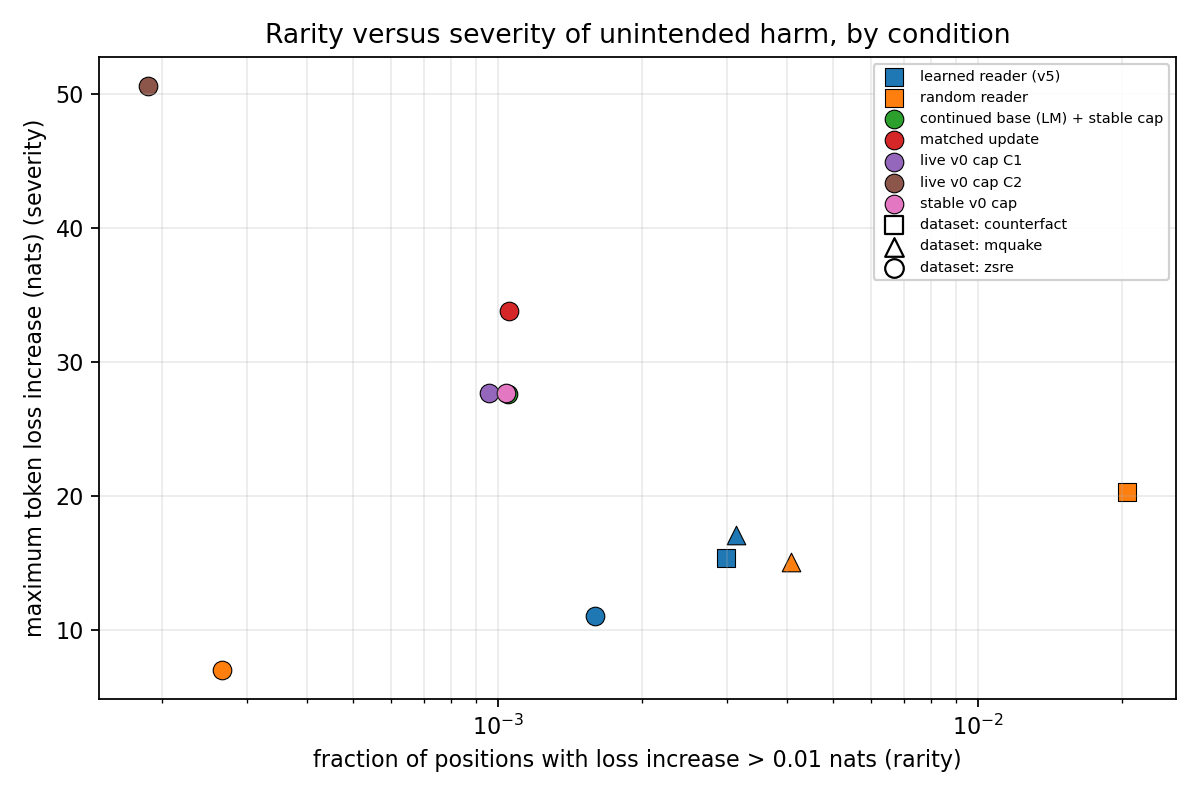
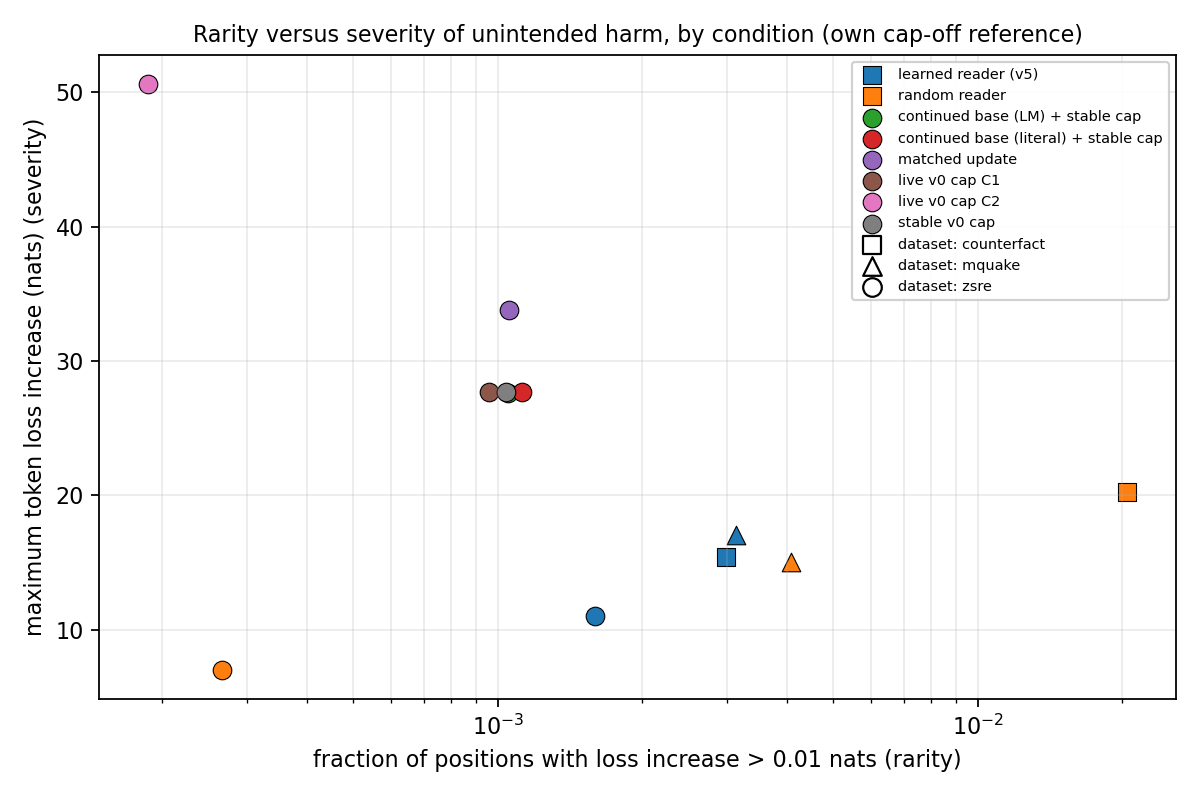
Presentation: HT-13 v1.1 (expected-shortfall ES99, receipted cells, corrected titles and caveats); generator copy updated; sealed cells
Claude-Session: https://claude.ai/code/session_01KJfiMMKuEUX8oia1Rsxsz2

diff --git a/presentation-materials/figures/tails/tail_figures.py b/presentation-materials/figures/tails/tail_figures.py
@@ -31,16 +31,50 @@ LABEL = {
 }
 
 
-def collect(pattern: str) -> dict[tuple[str, str], list[np.ndarray]]:
+def completed_attempts(receipt_root: Path) -> set[str] | None:
+    """Attempt directories of cells with a queue finish receipt (the reconciled inventory), or None if no receipts."""
+    done: set[str] = set()
+    for f in receipt_root.glob("*-*/finish.json"):
+        try:
+            for a in json.load(open(f)).get("new_attempts", []):
+                done.add(str(Path(a).resolve()))
+        except (OSError, ValueError):
+            continue
+    return done or None
+
+
+def collect(pattern: str, receipt_root: Path | None = None) -> dict[tuple[str, str], list[np.ndarray]]:
+    """Pool per-position loss changes by condition × dataset, restricted to attempts with a finish receipt.
+
+    A live cell may already have a full-validation file before its final receipt; only receipted attempts count.
+    """
+    done = completed_attempts(receipt_root) if receipt_root else None
     pooled: dict[tuple[str, str], list[np.ndarray]] = defaultdict(list)
     for f in sorted(glob.glob(pattern)):
         m = CELL_RE.search(f)
         if not m:
             continue
+        if done is not None and str(Path(f).resolve().parent) not in done:
+            continue
         cond, ds, _, _ = m.groups()
         v = np.load(f)["values"]
         pooled[(cond, ds)].append((v[:, :, 0] - v[:, :, 1]).ravel())
     return pooled
+
+
+def expected_shortfall(values, q: float = 0.99) -> float:
+    """Mean of the worst ``(1 - q)`` fraction (fractional boundary, zero mass retained); same as ``aw.scoring``."""
+    x = np.sort(np.asarray(values, np.float64).ravel())[::-1]
+    n = x.size
+    if n == 0:
+        return float("nan")
+    k = (1.0 - q) * n
+    if k <= 0:
+        return float(x[0])
+    whole = int(np.floor(k))
+    frac = k - whole
+    total = float(x[:whole].sum()) + (float(x[whole]) * frac if whole < n and frac > 0 else 0.0)
+    return total / k
 
 
 def statistics(d: np.ndarray) -> dict:
@@ -54,7 +88,7 @@ def statistics(d: np.ndarray) -> dict:
         "mean_signed": float(d.mean()),
         "exceedance": {str(t): float((d > t).mean()) for t in THRESHOLDS},
         "max": float(d.max()),
-        "es99_positive": float(np.quantile(pos, 0.99)),
+        "es99_positive": expected_shortfall(pos, 0.99),  # mean of the worst 1 % of positions, zeros included
         "half_mass_positions": half,
         "half_mass_fraction": float(half / d.size) if d.size else None,
     }
@@ -68,12 +102,14 @@ def survival(d: np.ndarray, grid: np.ndarray) -> np.ndarray:
 def main() -> None:
     ap = argparse.ArgumentParser()
     ap.add_argument("--pattern", default=str(ROOT / "results/R1/stage4_sealed_cells/*/attempt-0000/full-validation-*.npz"))
+    ap.add_argument("--receipt-root", default=str(ROOT / "logs/R1/final_queue"),
+                    help="queue receipt root; only attempts with a finish receipt are pooled")
     ap.add_argument("--out", required=True)
     args = ap.parse_args()
     out = Path(args.out)
     out.mkdir(parents=True, exist_ok=True)
 
-    pooled = collect(args.pattern)
+    pooled = collect(args.pattern, Path(args.receipt_root))
     grid = np.logspace(-3, np.log10(60), 200)
     table = {}
     curves = {}
@@ -101,7 +137,8 @@ def main() -> None:
         ax.grid(True, which="both", alpha=0.25)
         ax.legend(fontsize=6.5, loc="lower left")
     axes[0].set_ylabel("P(loss increase > x) over all validation positions")
-    fig.suptitle("Ordinary-text harm is rare and heavy-tailed: survival of the per-token loss increase, all completed cells pooled")
+    fig.suptitle("Rare severe ordinary-text harm: empirical survival of token loss increases (receipted cells pooled; "
+                 "reference = each cap's own cap-off base; zero survival is floored for display)", fontsize=9.5)
     fig.tight_layout()
     fig.savefig(out / "survival_by_dataset.png", dpi=160)
     plt.close(fig)
@@ -127,7 +164,7 @@ def main() -> None:
     ax.set_xscale("log")
     ax.set_xlabel("fraction of positions with loss increase > 0.01 nats (rarity)")
     ax.set_ylabel("maximum token loss increase (nats) (severity)")
-    ax.set_title("Rarity versus severity of unintended harm, by condition")
+    ax.set_title("Rarity versus severity of unintended harm, by condition (own cap-off reference)", fontsize=10)
     ax.grid(True, which="both", alpha=0.25)
     fig.tight_layout()
     fig.savefig(out / "rarity_vs_severity.png", dpi=160)

diff --git a/presentation-materials/tails_v1.md b/presentation-materials/tails_v1.md
@@ -1,58 +1,79 @@
-# Distributional harm on ordinary text — all completed Stage-4 cells (HT-13, v1)
+# Rare severe ordinary-text harm — all receipted Stage-4 cells (HT-13, v1.1)
 
-2026-09-26, Claude. Source: the saved per-position full-validation vectors of every completed cell
-(`results/R1/stage4_sealed_cells/*/attempt-0000/full-validation-*.npz`; 1,931 reset-context windows × 127 positions =
-245,237 positions per cell; the quantity is the per-token loss change of the cap against its own cap-off base, in nats).
-Generator: `aw/tail_figures.py` (pc_cap, canonical) with a copy at `figures/tails/tail_figures.py`; data `figures/tails/tails.json`; table `figures/tails/table.md`; run with the system `python3` (matplotlib) from the pc_cap root: `python3 -m aw.tail_figures --out /home/derp/cap/assets/presentation-materials/figures/tails`. Read-only;
-descriptive; reruns after the halt to add the S1 cells. Coverage at this run: blocks 1–4 complete and 26 of the 45
-block-5 cells in scope (S1_LM zsRE 15/15, S1_LM CounterFact 11/15).
+2026-09-26, Capstan (Claude, orchestrator); v1.1 after Capex's review (`pc_cap/docs/tasks/HT-13-round46-review.md`).
+Source: the saved per-position full-validation vectors of every cell **with a queue finish receipt**
+(`results/R1/stage4_sealed_cells/*/attempt-0000/full-validation-*.npz`, filtered by `logs/R1/final_queue/*/finish.json`;
+1,931 reset-context windows × 127 positions = 245,237 positions per cell). The quantity is the per-token loss change of
+the cap against **its own cap-off base**, in nats. Generator: `aw/tail_figures.py` (pc_cap, canonical) with a copy at
+`figures/tails/tail_figures.py`; run from the pc_cap root with the system `python3` (matplotlib):
+`python3 -m aw.tail_figures --out /home/derp/cap/assets/presentation-materials/figures/tails`. Data
+`figures/tails/tails.json`; table `figures/tails/table.md`. Descriptive; reruns after the halt (R1-D14f).
+Coverage at this run: blocks 1–4 complete; block 5 in scope 37 of 45 (S1_LM zsRE 15, S1_LM CounterFact 15,
+S1_literal zsRE 7).
 
 ## Figures
 
-- `figures/tails/survival_by_dataset.png` — P(loss increase > x) on log–log axes, one panel per dataset, all cells of a
-  condition pooled (≈ 3.7 million positions per condition × dataset).
-- `figures/tails/rarity_vs_severity.png` — fraction of positions with a loss increase above 0.01 nats (how often the
-  cap disturbs ordinary text) against the maximum single-token loss increase (how badly), one point per condition ×
-  dataset.
+- `figures/tails/survival_by_dataset.png` — empirical P(loss increase > x) on log–log axes, one panel per dataset,
+  all receipted cells of a condition pooled. Zero survival is floored at 10⁻⁹ for display only; nothing beyond each
+  curve's maximum has nonzero probability in these data.
+- `figures/tails/rarity_vs_severity.png` — fraction of positions with a loss increase above 0.01 nats against the
+  maximum single-token loss increase, one point per condition × dataset.
+
+## Definitions
+
+- **ES99+**: the mean of the worst 1 % of positions (fractional boundary, zero mass included), i.e. an expected
+  shortfall, not a percentile. v1 of this page reported the 99th percentile under this name; that was wrong (a single
+  10-nat loss among 1,000 positions has percentile 0 and ES99 1.0) and is corrected here.
+- **Half of all harm sits in**: the smallest number of positions, taken in descending order, carrying half of the
+  total positive loss change.
+- The pool repeats the same 245,237 positions across five orders and three realizations: it is a mixture of cell ×
+  position observations, not millions of independent test items. Proportions are descriptive.
 
 ## What the pooled tails show
 
-| condition | dataset | P(> 0.01) | P(> 1 nat) | P(> 5) | max (nats) | half of all harm sits in |
-|---|---|---:|---:|---:|---:|---:|
-| learned reader (v5) | zsRE | 0.159 % | 0.080 % | 0.009 % | 11.1 | 1,024 positions (0.03 %) |
-| learned reader (v5) | CounterFact | 0.298 % | 0.165 % | 0.027 % | 15.4 | 1,900 (0.05 %) |
-| learned reader (v5) | MQuAKE | 0.313 % | 0.194 % | 0.023 % | 17.1 | 2,336 (0.06 %) |
-| random reader | zsRE | 0.027 % | 0.017 % | 0.001 % | 7.0 | 225 |
-| random reader | CounterFact | 2.05 % | 1.70 % | 0.52 % | 20.3 | 18,856 (0.5 %) |
-| stable v0 cap | zsRE | 0.104 % | 0.034 % | 0.009 % | 27.7 | 262 |
-| live v0 cap C1 | zsRE | 0.096 % | 0.046 % | 0.013 % | 27.7 | 497 |
-| live v0 cap C2 | zsRE | 0.019 % | 0.016 % | 0.015 % | 50.6 | 175 |
-| matched update | zsRE | 0.105 % | 0.034 % | 0.009 % | 33.8 | 280 |
-| continued base (LM) + stable cap | zsRE | 0.105 % | 0.034 % | 0.010 % | 27.6 | 266 |
-| every v0-family cap | CounterFact, MQuAKE | 0 | 0 | 0 | 0 | — (never fires on ordinary text) |
+| condition | dataset | cells | P(> 0.01) | P(> 1 nat) | P(> 5) | max (nats) | ES99+ | half of all harm sits in |
+|---|---|---:|---:|---:|---:|---:|---:|---:|
+| learned reader (v5) | zsRE | 15 | 0.159 % | 0.080 % | 0.009 % | 11.1 | 0.26 | 1,024 positions (0.03 %) |
+| learned reader (v5) | CounterFact | 15 | 0.298 % | 0.165 % | 0.027 % | 15.4 | 0.57 | 1,900 (0.05 %) |
+| learned reader (v5) | MQuAKE | 15 | 0.313 % | 0.194 % | 0.023 % | 17.1 | 0.62 | 2,336 (0.06 %) |
+| random reader | zsRE | 15 | 0.027 % | 0.017 % | 0.001 % | 7.0 | 0.05 | 225 |
+| random reader | CounterFact | 15 | 2.05 % | 1.70 % | 0.52 % | 20.3 | 5.53 | 18,856 (0.5 %) |
+| random reader | MQuAKE | 15 | 0.409 % | 0.336 % | 0.069 % | 15.1 | 1.22 | 3,818 |
+| stable v0 cap | zsRE | 15 | 0.104 % | 0.034 % | 0.009 % | 27.7 | 0.18 | 262 |
+| live v0 cap C1 | zsRE | 15 | 0.096 % | 0.046 % | 0.013 % | 27.7 | 0.21 | 497 |
+| live v0 cap C2 | zsRE | 15 | 0.019 % | 0.016 % | 0.015 % | 50.6 | 0.32 | 175 |
+| matched update | zsRE | 15 | 0.105 % | 0.034 % | 0.009 % | 33.8 | 0.18 | 280 |
+| continued base (LM) + stable cap | zsRE | 15 | 0.105 % | 0.034 % | 0.010 % | 27.6 | 0.18 | 266 |
+| continued base (literal) + stable cap | zsRE | 7 | 0.112 % | 0.028 % | 0.008 % | 27.7 | 0.17 | 101 of 1.7 M |
+| every v0-family cap | CounterFact, MQuAKE | | 0 | 0 | 0 | 0 | 0 | never fires on ordinary text |
 
 Three statements the figures support, and their limits:
 
-1. **Harm is rare and concentrated for every condition that writes.** For the learned reader, between 0.16 % and
-   0.31 % of positions change by more than 0.01 nats, and half of all the harm sits in 0.03–0.06 % of positions. Mean
-   drift (0.002–0.007 nats) is a poor description of this: it is the average of a very small number of large losses.
-2. **The learned cap and the v0-family caps have qualitatively different tails.** The learned cap disturbs more
-   positions but its worst tokens are 11–17 nats; the v0-family caps (stable, live C1/C2, matched update, continued
-   base) disturb fewer positions on zsRE but their worst tokens reach 28–51 nats. Live C2 is the extreme case:
-   almost every position it disturbs at all is disturbed by more than 5 nats. "Rarer but heavier" versus "more
-   frequent but milder" is the trade-off the survival curves show; the mean cannot distinguish them.
-3. **On CounterFact and MQuAKE the v0-family caps never fire on ordinary text** (calibration radius 0: exact-prompt
-   matching only), so their harm is exactly zero there, while their paraphrase retention is also zero. A cap that
-   never generalises never harms; the interesting region is where retention and harm are both nonzero.
+1. **Harm is rare and concentrated for every condition that writes.** For the learned reader, 0.16–0.31 % of positions
+   change by more than 0.01 nats and half of all the harm sits in 0.03–0.06 % of positions. Mean drift (0.002–0.007
+   nats) is the average of a very small number of large losses; ES99+ of 0.26–0.62 nats says what the worst 1 % of
+   positions cost on average.
+2. **The learned cap and the v0-family caps differ in the shape of the tail, not in mean drift.** The learned cap
+   disturbs more positions but its worst tokens are 11–17 nats; the v0-family caps disturb fewer positions on zsRE and
+   their worst tokens reach 28–51 nats. Live C2 is the extreme: almost every position it disturbs at all loses more
+   than 5 nats. "Rarer but heavier" versus "more frequent but milder" is what the survival curves show and the mean
+   cannot.
+3. **On CounterFact and MQuAKE the v0-family caps never fire on ordinary text** (exact-prompt matching only), so their
+   harm against their own cap-off base is exactly zero there, while their paraphrase retention is also zero.
 
-What this does not establish: a power law or any asymptotic tail class (the survival curves are empirical over a finite
-population and the losses are bounded by the vocabulary), independence of positions (windows share text), robustness
-to unobserved inputs, or anything about temporal clustering. The κ pilot (DEC-054) and the bounded-correction
-experiment (AW-B, if run) address whether the tail can be shaped; this page only measures it.
+Reference caveat: these curves compare each cap with **its own** cap-off base. For the continued-base controls (S1)
+that base is the continued checkpoint, not the original model, so a zero or small curve does not measure the total
+departure from the original GPT-2; the saved vectors also hold the original-base reference (fields 2 and 4) and a
+second view can be produced from them.
+
+What this does not establish: a heavy-tailed distribution class, a power law or any asymptotic tail (the curves are
+empirical over a finite population and losses are bounded by the vocabulary); independence of positions; robustness
+to unobserved inputs; temporal clustering. The κ pilot (DEC-054) and the bounded-correction experiment (if run) ask
+whether the tail can be shaped; this page only measures it.
 
 ## For the deck
 
-Suggested placement under the heavy-tailed-distributions theme: the survival figure as the "why the mean misleads"
-slide; the rarity-versus-severity figure as the comparator slide, with the sentence that the registered comparators
-differ from the learned cap in the shape of the tail, not in mean drift. Numbers above are the current pooled values;
-the generator reruns after the halt and the table is replaced, not edited.
+Under the heavy-tailed-distributions theme: the survival figure as the "why the mean misleads" slide (outline slide
+6), the rarity-versus-severity figure as the comparator slide (slide 7), with the sentence that the registered
+comparators differ from the learned cap in the shape of the tail, not in mean drift. The generator reruns after the
+halt and this table is replaced, not edited.

diff --git a/presentation-materials/figures/tails/table.md b/presentation-materials/figures/tails/table.md
@@ -1,19 +1,20 @@
 | condition | dataset | cells | changed positions | P(>0.01) | P(>1) | P(>5) | max (nats) | ES99+ | half-mass positions |
 |---|---|---:|---:|---:|---:|---:|---:|---:|---:|
-| learned reader (v5) | counterfact | 15 | 0.344 % | 0.2984 % | 0.1651 % | 0.0270 % | 15.38 | 0.000 | 1900 of 3678555 |
-| learned reader (v5) | mquake | 15 | 0.355 % | 0.3133 % | 0.1941 % | 0.0226 % | 17.06 | 0.000 | 2336 of 3678555 |
-| learned reader (v5) | zsre | 15 | 0.187 % | 0.1594 % | 0.0797 % | 0.0086 % | 11.05 | 0.000 | 1024 of 3678555 |
-| random reader | counterfact | 15 | 2.167 % | 2.0450 % | 1.7049 % | 0.5219 % | 20.28 | 3.119 | 18856 of 3678555 |
-| random reader | mquake | 15 | 0.431 % | 0.4089 % | 0.3357 % | 0.0686 % | 15.07 | 0.000 | 3818 of 3678555 |
-| random reader | zsre | 15 | 0.029 % | 0.0266 % | 0.0173 % | 0.0010 % | 7.00 | 0.000 | 225 of 3678555 |
-| continued base (LM) + stable cap | counterfact | 11 | 0.000 % | 0.0000 % | 0.0000 % | 0.0000 % | 0.00 | 0.000 | 0 of 2697607 |
-| continued base (LM) + stable cap | zsre | 15 | 0.172 % | 0.1049 % | 0.0335 % | 0.0096 % | 27.61 | 0.000 | 266 of 3678555 |
+| learned reader (v5) | counterfact | 15 | 0.344 % | 0.2984 % | 0.1651 % | 0.0270 % | 15.38 | 0.571 | 1900 of 3678555 |
+| learned reader (v5) | mquake | 15 | 0.355 % | 0.3133 % | 0.1941 % | 0.0226 % | 17.06 | 0.620 | 2336 of 3678555 |
+| learned reader (v5) | zsre | 15 | 0.187 % | 0.1594 % | 0.0797 % | 0.0086 % | 11.05 | 0.260 | 1024 of 3678555 |
+| random reader | counterfact | 15 | 2.167 % | 2.0450 % | 1.7049 % | 0.5219 % | 20.28 | 5.528 | 18856 of 3678555 |
+| random reader | mquake | 15 | 0.431 % | 0.4089 % | 0.3357 % | 0.0686 % | 15.07 | 1.224 | 3818 of 3678555 |
+| random reader | zsre | 15 | 0.029 % | 0.0266 % | 0.0173 % | 0.0010 % | 7.00 | 0.048 | 225 of 3678555 |
+| continued base (LM) + stable cap | counterfact | 15 | 0.000 % | 0.0000 % | 0.0000 % | 0.0000 % | 0.00 | 0.000 | 0 of 3678555 |
+| continued base (LM) + stable cap | zsre | 15 | 0.172 % | 0.1049 % | 0.0335 % | 0.0096 % | 27.61 | 0.181 | 266 of 3678555 |
+| continued base (literal) + stable cap | zsre | 7 | 0.187 % | 0.1120 % | 0.0284 % | 0.0080 % | 27.69 | 0.165 | 101 of 1716659 |
 | matched update | counterfact | 15 | 0.000 % | 0.0000 % | 0.0000 % | 0.0000 % | 0.00 | 0.000 | 0 of 3678555 |
-| matched update | zsre | 15 | 0.169 % | 0.1053 % | 0.0338 % | 0.0092 % | 33.77 | 0.000 | 280 of 3678555 |
+| matched update | zsre | 15 | 0.169 % | 0.1053 % | 0.0338 % | 0.0092 % | 33.77 | 0.177 | 280 of 3678555 |
 | live v0 cap C1 | counterfact | 15 | 0.000 % | 0.0000 % | 0.0000 % | 0.0000 % | 0.00 | 0.000 | 0 of 3678555 |
-| live v0 cap C1 | zsre | 15 | 0.144 % | 0.0959 % | 0.0458 % | 0.0125 % | 27.68 | 0.000 | 497 of 3678555 |
+| live v0 cap C1 | zsre | 15 | 0.144 % | 0.0959 % | 0.0458 % | 0.0125 % | 27.68 | 0.210 | 497 of 3678555 |
 | live v0 cap C2 | counterfact | 15 | 0.000 % | 0.0000 % | 0.0000 % | 0.0000 % | 0.00 | 0.000 | 0 of 3678555 |
-| live v0 cap C2 | zsre | 15 | 0.021 % | 0.0187 % | 0.0160 % | 0.0150 % | 50.60 | 0.000 | 175 of 3678555 |
+| live v0 cap C2 | zsre | 15 | 0.021 % | 0.0187 % | 0.0160 % | 0.0150 % | 50.60 | 0.321 | 175 of 3678555 |
 | stable v0 cap | counterfact | 15 | 0.000 % | 0.0000 % | 0.0000 % | 0.0000 % | 0.00 | 0.000 | 0 of 3678555 |
 | stable v0 cap | mquake | 15 | 0.000 % | 0.0000 % | 0.0000 % | 0.0000 % | 0.00 | 0.000 | 0 of 3678555 |
-| stable v0 cap | zsre | 15 | 0.170 % | 0.1041 % | 0.0335 % | 0.0094 % | 27.68 | 0.000 | 262 of 3678555 |
+| stable v0 cap | zsre | 15 | 0.170 % | 0.1041 % | 0.0335 % | 0.0094 % | 27.68 | 0.179 | 262 of 3678555 |
